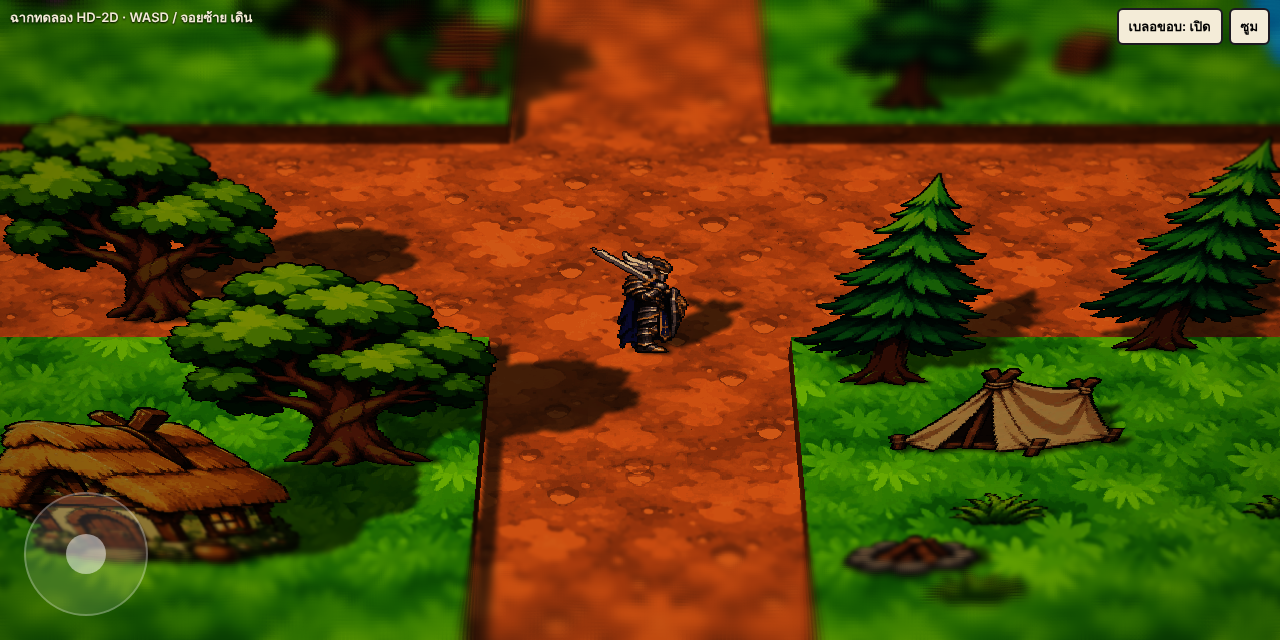
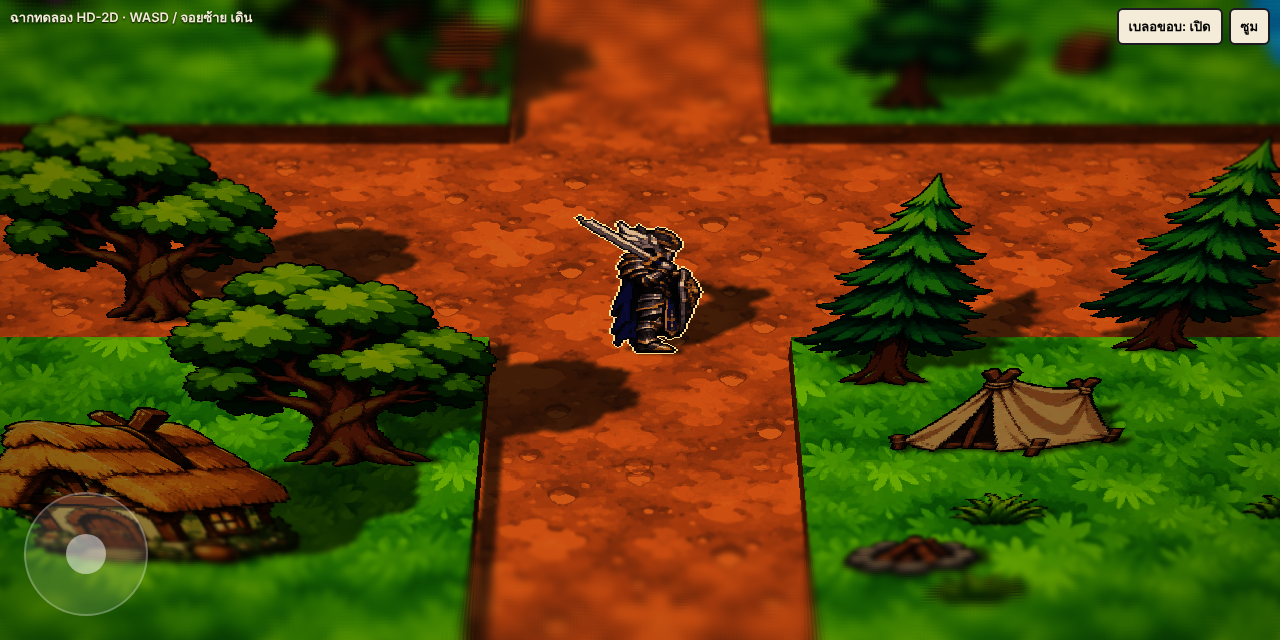
HD-2D test: hero bigger, full brightness, light rim so he reads against the ground
Claude-Session: https://claude.ai/code/session_01TXxUxQ6wjWh66ESj3NLopA

Changed region(s): [[0.4375, 0.3438, 0.625, 0.5625]]

diff --git a/hd3d.html b/hd3d.html
@@ -98,15 +98,20 @@ fetch('art/action/n128/guardian.json').then(r => r.json()).then(m => { HM = m;
   for (const a of ['idle', 'run']) { const t = tex('art/action/n128/' + m.anims[a].img); HIMG[a] = t; } });
 const hc = document.createElement('canvas'); hc.width = hc.height = 132; const hg = hc.getContext('2d'); hg.imageSmoothingEnabled = false;
 const htex = new THREE.CanvasTexture(hc); htex.magFilter = THREE.NearestFilter; htex.minFilter = THREE.NearestFilter; htex.encoding = THREE.sRGBEncoding;
-const hmat = new THREE.MeshBasicMaterial({map: htex, alphaTest: .5, side: THREE.DoubleSide, color: 0xf4ecdc});   // the hero is never lost in shade
+const hmat = new THREE.MeshBasicMaterial({map: htex, alphaTest: .5, side: THREE.DoubleSide, color: 0xffffff});   // the hero is never lost in shade
 const hgeo = new THREE.PlaneGeometry(1, 1); hgeo.translate(0, .5, 0);
 const hmesh = new THREE.Mesh(hgeo, hmat); hmesh.castShadow = true; hmesh.customDepthMaterial = new THREE.MeshDepthMaterial({depthPacking: THREE.RGBADepthPacking, map: htex, alphaTest: .5});
-hmesh.scale.set(2, 2, 1); scene.add(hmesh);
+hmesh.scale.set(2.5, 2.5, 1); scene.add(hmesh);
 function drawHero(dt) {
   if (!HM) return; hero.t += dt; const a = hero.moving ? 'run' : 'idle', A = HM.anims[a], T2 = HIMG[a]; if (!T2.image || !T2.image.width) return;
   const C = HM.cell, f = Math.floor(hero.t * (hero.moving ? 14 : 9)) % A.east.n;
   hg.clearRect(0, 0, 132, 132); hg.save(); if (hero.dir < 0) { hg.translate(132, 0); hg.scale(-1, 1); }
-  hg.drawImage(T2.image, f * C, A.east.r * C, C, C, 0, 132 - HM.fy - 4, C, C); hg.restore(); htex.needsUpdate = true;
+  hg.drawImage(T2.image, f * C, A.east.r * C, C, C, 0, 132 - HM.fy - 4, C, C); hg.restore();
+  // a 1 px light rim round the figure (owner "ตัวละครเราเบลอ แต่ฉากชัด": the dark armour sank into the bold ground)
+  const id = hg.getImageData(0, 0, 132, 132), d = id.data, a2 = new Uint8Array(132 * 132); for (let i = 0; i < a2.length; i++) a2[i] = d[i * 4 + 3] > 100;
+  for (let y = 1; y < 131; y++) for (let x = 1; x < 131; x++) { const i = y * 132 + x; if (a2[i]) continue;
+    if (a2[i - 1] || a2[i + 1] || a2[i - 132] || a2[i + 132]) { d[i * 4] = 255; d[i * 4 + 1] = 240; d[i * 4 + 2] = 200; d[i * 4 + 3] = 255; } }
+  hg.putImageData(id, 0, 0); htex.needsUpdate = true;
 }
 // ---------- input ----------
 const K = {}; addEventListener('keydown', e => K[e.key.toLowerCase()] = 1); addEventListener('keyup', e => K[e.key.toLowerCase()] = 0);
